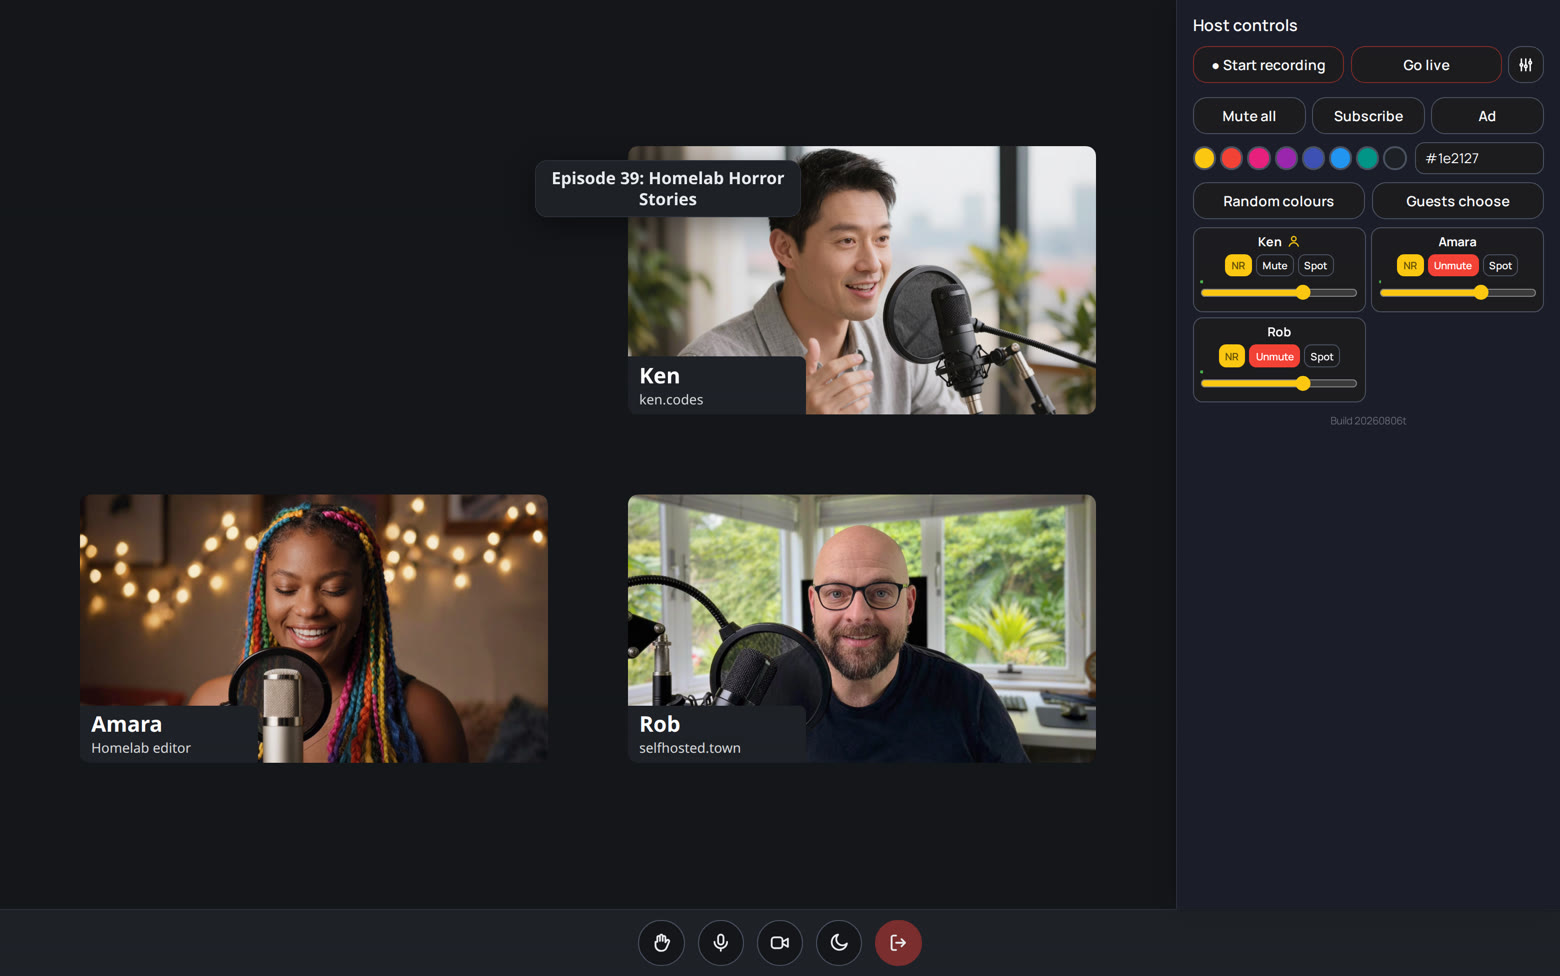
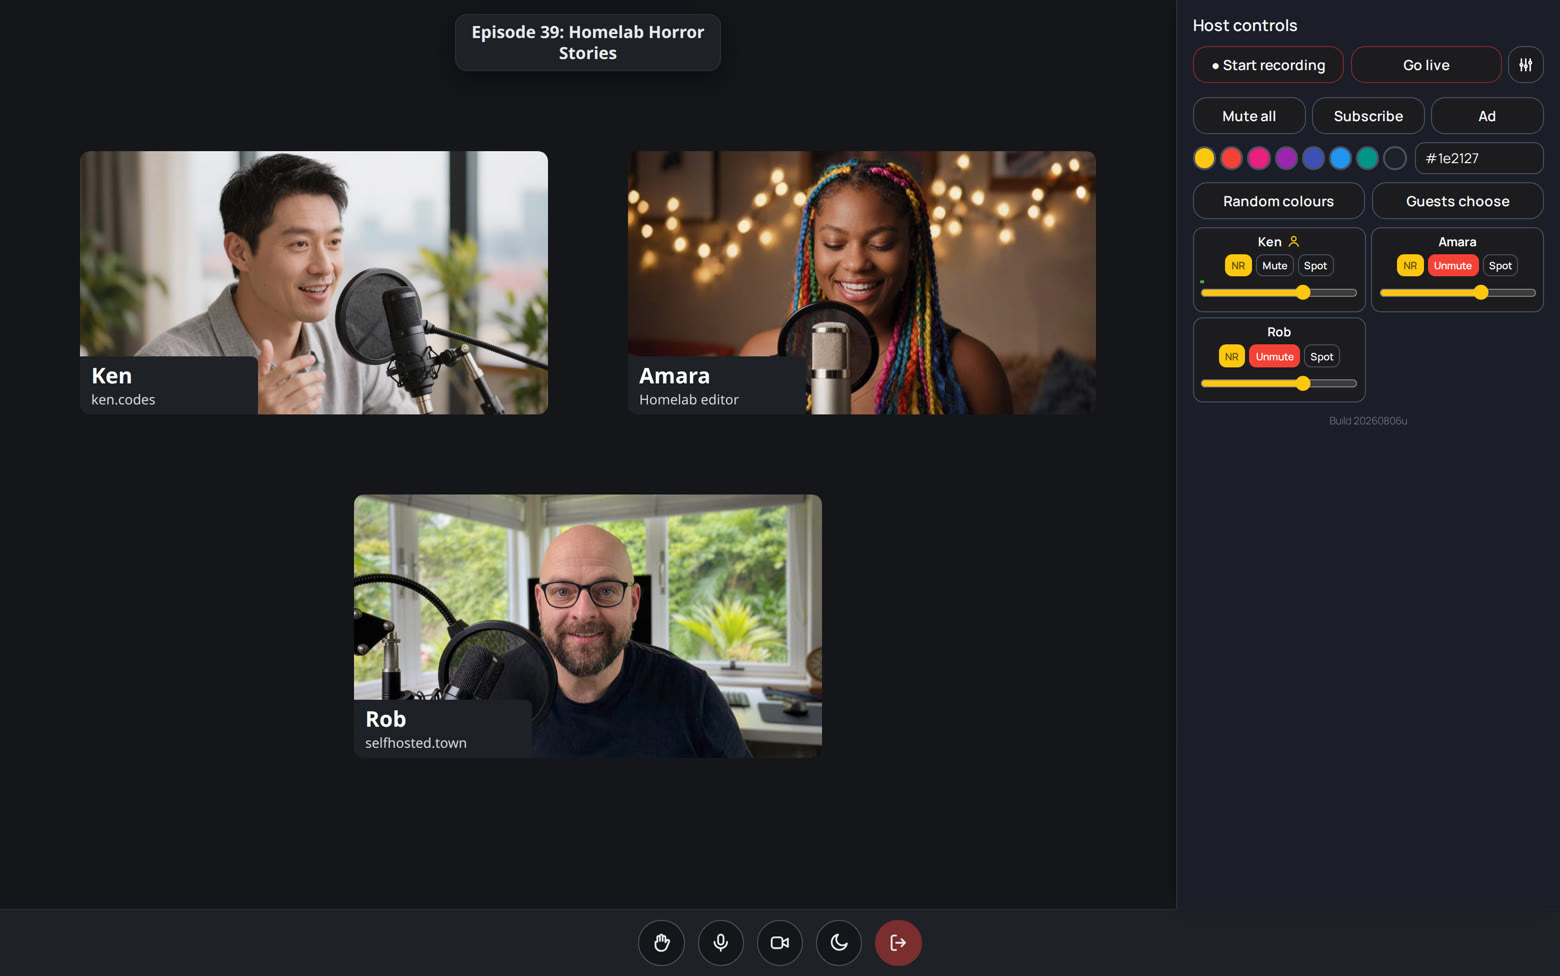
Balanced centred grid, host always top-left, everywhere
- Tiles are placed explicitly (screen) and via xstack coordinates
  (recording + stream) with identical maths: uniform tile size, rows
  as even as possible with fuller rows first (7 = 3+2+2), incomplete
  rows centred, host tile first regardless of join order
- Fix: [data-tip] position:relative outranked .banner's absolute
  positioning on the host (the drag tooltip), throwing the block to
  mid-screen; #grid .banner now wins
- Spotlight layout untouched (CSS grid mode)

Changed region(s): [[0.0308, 0.4918, 0.7077, 0.7992], [0.0308, 0.123, 0.7077, 0.4303], [0.3077, 0.0, 0.4615, 0.0615]]

diff --git a/web/js/session.js b/web/js/session.js
@@ -439,7 +439,7 @@
   // Remote audio plays through a per-guest GainNode so the host's
   // volume sliders affect what everyone hears, including recordings.
 
-  function makeTile(peerId, name, isSelf, tagline = "") {
+  function makeTile(peerId, name, isSelf, tagline = "", isHostPeer = false) {
     const el = document.createElement("div");
     el.className = "tile" + (isSelf ? " self" : "");
     el.dataset.peerId = peerId;
@@ -460,7 +460,9 @@
       third.appendChild(tagEl);
     }
     el.append(video, third);
-    els.grid.appendChild(el);
+    // The host always sits top-left; everyone else in join order
+    if (isHostPeer) els.grid.insertBefore(el, els.banner.nextSibling);
+    else els.grid.appendChild(el);
     const stream = new MediaStream();
     video.srcObject = stream;
     tiles.set(peerId, { el, video, stream, name, gain: null });
@@ -528,11 +530,46 @@
     if (!spot) {
       const mobile = matchMedia("(max-width: 700px)").matches;
       const n = Math.max(1, tiles.size); // self included everywhere
-      const cols = mobile ? (n > 1 ? 2 : 1) : Math.ceil(Math.sqrt(n));
-      els.grid.style.setProperty("--cols", cols);
+      const cols = mobile ? Math.min(2, n) : Math.ceil(Math.sqrt(n));
+      // Rows as even as possible, fuller rows first: 7 people means
+      // 3 + 2 + 2, 8 means 3 + 3 + 2 — never 3 + 3 + 1
+      const rows = Math.ceil(n / cols);
+      const base = Math.floor(n / rows), extra = n % rows;
+      const rowSizes = Array.from({ length: rows }, (_, r) => base + (r < extra ? 1 : 0));
+      // One tile size for everyone: as large as fits both ways
+      const cs = getComputedStyle(els.grid);
+      const gap = parseFloat(cs.gap) || 16;
+      const padL = parseFloat(cs.paddingLeft), padT = parseFloat(cs.paddingTop);
+      const availW = els.grid.clientWidth - padL - parseFloat(cs.paddingRight);
+      const availH = els.grid.clientHeight - padT - parseFloat(cs.paddingBottom);
+      const tileW = Math.max(120, Math.min(
+        (availW - (cols - 1) * gap) / cols,
+        ((availH - (rows - 1) * gap) / rows) * 16 / 9
+      ));
+      const tileH = tileW * 9 / 16;
+      const blockH = rows * tileH + (rows - 1) * gap;
+      const startY = mobile ? padT : padT + Math.max(0, (availH - blockH) / 2);
+      els.grid.style.setProperty("--tile-w", `${Math.floor(tileW)}px`);
+      // Place tiles by hand: same maths as the recording/stream grid
+      const els2 = [...els.grid.querySelectorAll(".tile")];
+      let idx = 0;
+      rowSizes.forEach((size, r) => {
+        const rowW = size * tileW + (size - 1) * gap;
+        const x0 = padL + (availW - rowW) / 2;
+        for (let cix = 0; cix < size && idx < els2.length; cix++, idx++) {
+          els2[idx].style.left = `${Math.round(x0 + cix * (tileW + gap))}px`;
+          els2[idx].style.top = `${Math.round(startY + r * (tileH + gap))}px`;
+        }
+      });
+    } else {
+      for (const t of els.grid.querySelectorAll(".tile")) {
+        t.style.left = "";
+        t.style.top = "";
+      }
     }
     positionTitleBlock();
   }
+  window.addEventListener("resize", () => applyLayout());
   matchMedia("(max-width: 700px)").addEventListener("change", applyLayout);
 
   const BANNER_COLOURS = [
@@ -1201,7 +1238,7 @@
         appData: { source: "camera" }
       });
 
-      const selfTile = makeTile(selfId, selfName, true, els.taglineInput.value.trim());
+      const selfTile = makeTile(selfId, selfName, true, els.taglineInput.value.trim(), isHost);
       selfTile.stream.addTrack(videoTrack);
       if (isHost) {
         const ctx = ensureAudioCtx();
@@ -1212,11 +1249,11 @@
       }
       applyMirror();
       for (const p of info.peers) {
-        makeTile(p.id, p.name, false, p.tagline);
+        makeTile(p.id, p.name, false, p.tagline, p.role === "host");
         for (const prod of p.producers) await consumeProducer(p.id, prod.id);
       }
 
-      eventHandlers.peerJoined = (p) => makeTile(p.id, p.name, false, p.tagline);
+      eventHandlers.peerJoined = (p) => makeTile(p.id, p.name, false, p.tagline, p.role === "host");
       eventHandlers.peerLeft = ({ peerId }) => removeTile(peerId);
       eventHandlers.newProducer = ({ peerId, producerId }) =>
         consumeProducer(peerId, producerId).catch(console.error);

diff --git a/web/css/session.css b/web/css/session.css
@@ -155,7 +155,9 @@ body {
 /* Episode logo + title block: 180px wide, logo up to 180x50 with the
    title (up to 30px) underneath; text-only titles fill the space.
    The host drags it anywhere; recordings and streams mirror it. */
-.banner {
+#grid .banner {
+  /* #grid prefix: outranks the [data-tip] position:relative helper,
+     which otherwise knocks the host's block out of absolute layout */
   position: absolute;
   top: 14px;
   left: 50%;
@@ -232,21 +234,28 @@ body {
 .grid {
   position: relative;
   flex: 1;
-  display: grid;
+  /* Uniform tiles, centred rows: 2 side by side; 3 = two on top, one
+     centred below; 5 = three up, two centred below - all one size */
+  display: flex;
+  flex-wrap: wrap;
+  justify-content: center;
+  align-content: center;
   /* Wide, even spacing all round so the wallpaper shows through -
      80px on desktop, scaling down with the viewport */
   gap: clamp(16px, 5.5vw, 80px);
   padding: clamp(16px, 5.5vw, 80px);
   overflow: hidden;
-  grid-template-columns: repeat(var(--cols, 1), 1fr);
-  align-content: center;
 }
 .tile {
-  position: relative;
+  /* Placed by hand in normal layout (balanced centred rows) */
+  position: absolute;
   background: #000;
   border-radius: 10px;
   overflow: hidden;
   min-height: 0;
+  width: var(--tile-w, 480px);
+  aspect-ratio: 16 / 9;
+  flex: 0 0 auto;
   container-type: inline-size;
 }
 .tile video {
@@ -377,10 +386,12 @@ body {
 /* ---------- Spotlight layout ----------
    Featured tile fills the top; everyone else shrinks to a bottom strip. */
 .grid.spotlight {
+  display: grid;
   grid-template-columns: repeat(auto-fit, minmax(110px, 1fr));
   grid-template-rows: 1fr 16vh;
   align-content: stretch;
 }
+.grid.spotlight .tile { position: relative; width: auto; aspect-ratio: auto; flex: initial; }
 .grid.spotlight .tile.featured {
   grid-column: 1 / -1;
   grid-row: 1;
@@ -594,8 +605,7 @@ body.dim-ui .banner:hover { opacity: 1; }
    can always see yourself where you'll appear in the recording. Tiles
    start below the default logo/title block position. */
 @media (max-width: 700px) {
-  .grid { align-content: start; padding-top: 84px; }
-  .tile { aspect-ratio: 16 / 9; }
+  .grid { align-content: flex-start; padding-top: 84px; }
 }
 
 /* ---------- Tooltips: lozenge, background-coloured, outlined ---------- */

diff --git a/server/src/recording/processor.js b/server/src/recording/processor.js
@@ -55,6 +55,7 @@ export async function processRecording(rec) {
     const bannerFile = path.join(raw, p.banner || `banner-${peerId}.png`);
     const part = {
       name,
+      role: p.role,
       offsetMs: p.startOffsetMs || 0,
       audioFile: audioFile && await exists(audioFile) ? audioFile : null,
       videoFile: videoFile && await exists(videoFile) ? videoFile : null,
@@ -71,8 +72,10 @@ export async function processRecording(rec) {
     if (part.audioFile || part.videoFile) parts.push(part);
   }
 
-  // Combined grid MKV: video tiles stacked, all audio mixed
-  const videos = parts.filter((p) => p.videoFile);
+  // Combined grid MKV: video tiles stacked, all audio mixed.
+  // Host top-left, like every screen.
+  const videos = parts.filter((p) => p.videoFile)
+    .sort((a, b) => (b.role === "host") - (a.role === "host"));
   const audios = parts.filter((p) => p.audioFile);
   if (videos.length > 0) {
     const args = [];
@@ -107,8 +110,15 @@ export async function processRecording(rec) {
       return `${base}[t${i}];[${p.bnIdx}:v]scale=${bannerW}:-2[bn${i}];` +
         `[t${i}][bn${i}]overlay=x=0:y=main_h-overlay_h:eof_action=repeat[v${i}]`;
     }).join(";");
-    const layout = videos.map((p, i) =>
-      `${(i % cols) * cellW}_${Math.floor(i / cols) * cellH}`);
+    // Balanced centred rows, matching the on-screen layout (7 = 3+2+2)
+    const nRows = Math.ceil(videos.length / cols);
+    const rBase = Math.floor(videos.length / nRows), rExtra = videos.length % nRows;
+    const rowSizes = Array.from({ length: nRows }, (_, r) => rBase + (r < rExtra ? 1 : 0));
+    const layout = [];
+    rowSizes.forEach((size, r) => {
+      const xoff = Math.round((cols * cellW - size * cellW) / 2);
+      for (let cix = 0; cix < size; cix++) layout.push(`${xoff + cix * cellW}_${r * cellH}`);
+    });
     const stack = videos.length === 1
       ? `[v0]copy[vout]`
       : `${videos.map((p, i) => `[v${i}]`).join("")}xstack=inputs=${videos.length}:layout=${layout.join("|")}:fill=black[vout]`;

diff --git a/server/src/streaming.js b/server/src/streaming.js
@@ -70,13 +70,15 @@ async function launch(state) {
       });
       const sdpPath = path.join(workDir, `${crypto.randomUUID()}.sdp`);
       await fs.writeFile(sdpPath, sdpFor(port, consumer));
-      inputs.push({ sdpPath, kind: consumer.kind, name: peer.name, peerId: peer.id });
+      inputs.push({ sdpPath, kind: consumer.kind, name: peer.name, peerId: peer.id, role: peer.role });
       cleanup.transports.push(transport);
       cleanup.consumers.push(consumer);
     }
   }
 
   const videos = inputs.map((x, i) => ({ ...x, i })).filter((x) => x.kind === "video");
+  // Host top-left, like every screen
+  videos.sort((a, b) => (b.role === "host") - (a.role === "host"));
   const audios = inputs.map((x, i) => ({ ...x, i })).filter((x) => x.kind === "audio");
   if (videos.length === 0) throw new Error("nothing to stream yet");
   const overlay = state.pendingOverlay || null;
@@ -108,7 +110,15 @@ async function launch(state) {
     return `${base}[t${k}];[${v.bnIdx}:v]scale=${bannerW}:-2[bn${k}];` +
       `[t${k}][bn${k}]overlay=x=0:y=main_h-overlay_h:eof_action=repeat[v${k}]`;
   }).join(";");
-  const layout = videos.map((v, k) => `${(k % cols) * cellW}_${Math.floor(k / cols) * cellH}`);
+  // Balanced centred rows, matching the on-screen layout (7 = 3+2+2)
+  const nRows = Math.ceil(videos.length / cols);
+  const rBase = Math.floor(videos.length / nRows), rExtra = videos.length % nRows;
+  const rowSizes = Array.from({ length: nRows }, (_, r) => rBase + (r < rExtra ? 1 : 0));
+  const layout = [];
+  rowSizes.forEach((size, r) => {
+    const xoff = Math.round((cols * cellW - size * cellW) / 2);
+    for (let cix = 0; cix < size; cix++) layout.push(`${xoff + cix * cellW}_${r * cellH}`);
+  });
   const stack = videos.length === 1
     ? "[v0]copy[vout]"
     : `${videos.map((v, k) => `[v${k}]`).join("")}xstack=inputs=${videos.length}:layout=${layout.join("|")}:fill=black[vout]`;

diff --git a/web/session.html b/web/session.html
@@ -4,7 +4,7 @@
 <meta charset="utf-8">
 <meta name="viewport" content="width=device-width, initial-scale=1, viewport-fit=cover">
 <title>FOSSStudio session</title>
-<link rel="stylesheet" href="/css/session.css?v=20260806t">
+<link rel="stylesheet" href="/css/session.css?v=20260806u">
 <link rel="manifest" href="/manifest.json">
 <link rel="icon" href="/icons/icon-192.png">
 <meta name="theme-color" content="#14161a">
@@ -93,7 +93,7 @@
       </div>
     </div>
     <div id="hpGuests"></div>
-    <div class="hp-build">Build 20260806t</div>
+    <div class="hp-build">Build 20260806u</div>
   </aside>
   </div>
   <footer class="controls">
@@ -107,7 +107,7 @@
   </footer>
 </div>
 
-<script src="/assets/mediasoup-client.js?v=20260806t"></script>
-<script src="/js/session.js?v=20260806t"></script>
+<script src="/assets/mediasoup-client.js?v=20260806u"></script>
+<script src="/js/session.js?v=20260806u"></script>
 </body>
 </html>

diff --git a/web/host/index.html b/web/host/index.html
@@ -4,7 +4,7 @@
 <meta charset="utf-8">
 <meta name="viewport" content="width=device-width, initial-scale=1">
 <title>FOSSStudio — Host</title>
-<link rel="stylesheet" href="/host/host.css?v=20260806t">
+<link rel="stylesheet" href="/host/host.css?v=20260806u">
 <link rel="manifest" href="/manifest.json">
 <link rel="icon" href="/icons/icon-192.png">
 <meta name="theme-color" content="#14161a">
@@ -233,6 +233,6 @@
   </div>
 </div>
 
-<script src="/host/host.js?v=20260806t"></script>
+<script src="/host/host.js?v=20260806u"></script>
 </body>
 </html>

diff --git a/server/src/recording/manager.js b/server/src/recording/manager.js
@@ -115,6 +115,7 @@ export function addPeerToRecording(rec, peer) {
   if (rec.peers.has(peer.id) || rec.stopping) return null;
   rec.peers.set(peer.id, {
     name: peer.name,
+    role: peer.role,
     startOffsetMs: Date.now() - rec.startedAt,
     done: rec.mode === "server", // server mode needs no client uploads
     files: {}

diff --git a/CHANGELOG.md b/CHANGELOG.md
@@ -4,6 +4,13 @@ All notable changes to FOSSStudio are documented here.
 
 ## Unreleased
 
+- **New grid layout**: the host is always top-left; everyone is the
+  same size; rows balance and centre themselves (2 side by side; 3 =
+  two up, one centred below; 5 = 3+2; 7 = 3+2+2; 8 = 3+3+2; 9 = 3×3) —
+  identical on screen, in recordings and on the live stream
+- **Fix**: on the host's screen the logo/title block could jump to the
+  middle-right — a stylesheet clash with its drag tooltip
+
 - **Fix**: the logo/title block stretched to the height of a video row
   on the host's screen when a second participant joined
 - The block now **scales down with the viewport** so tablets and
